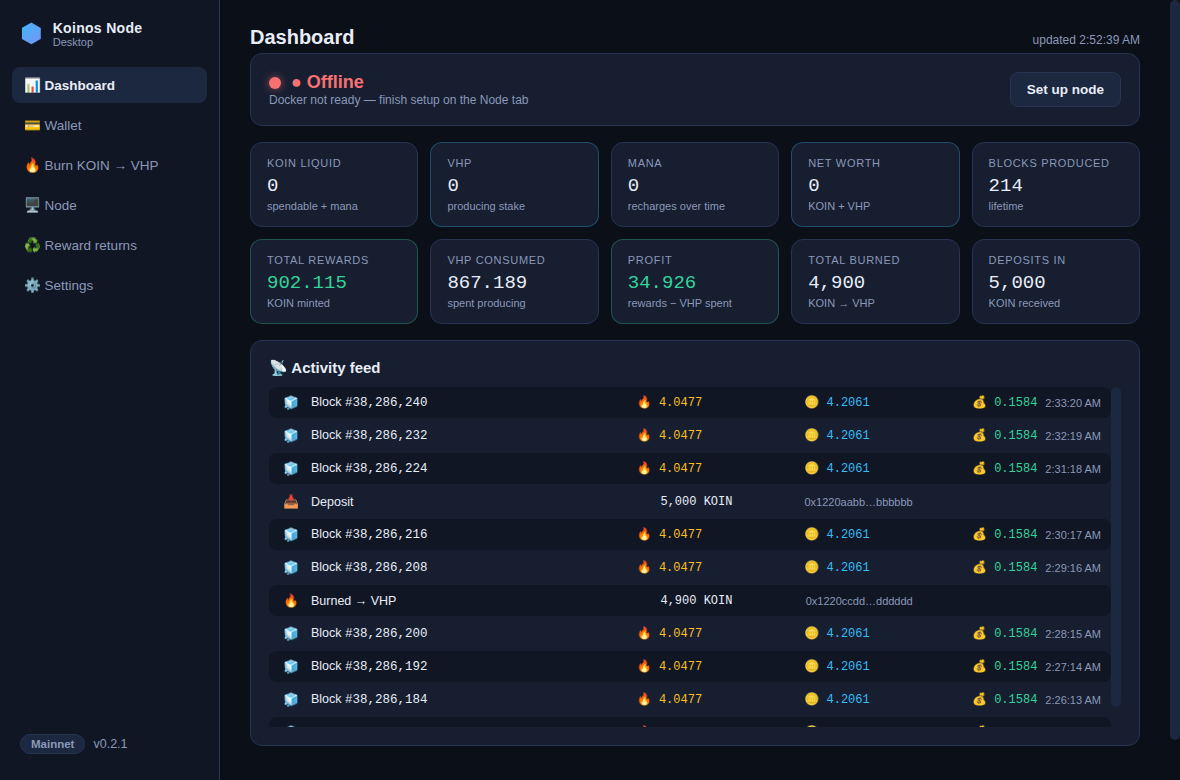
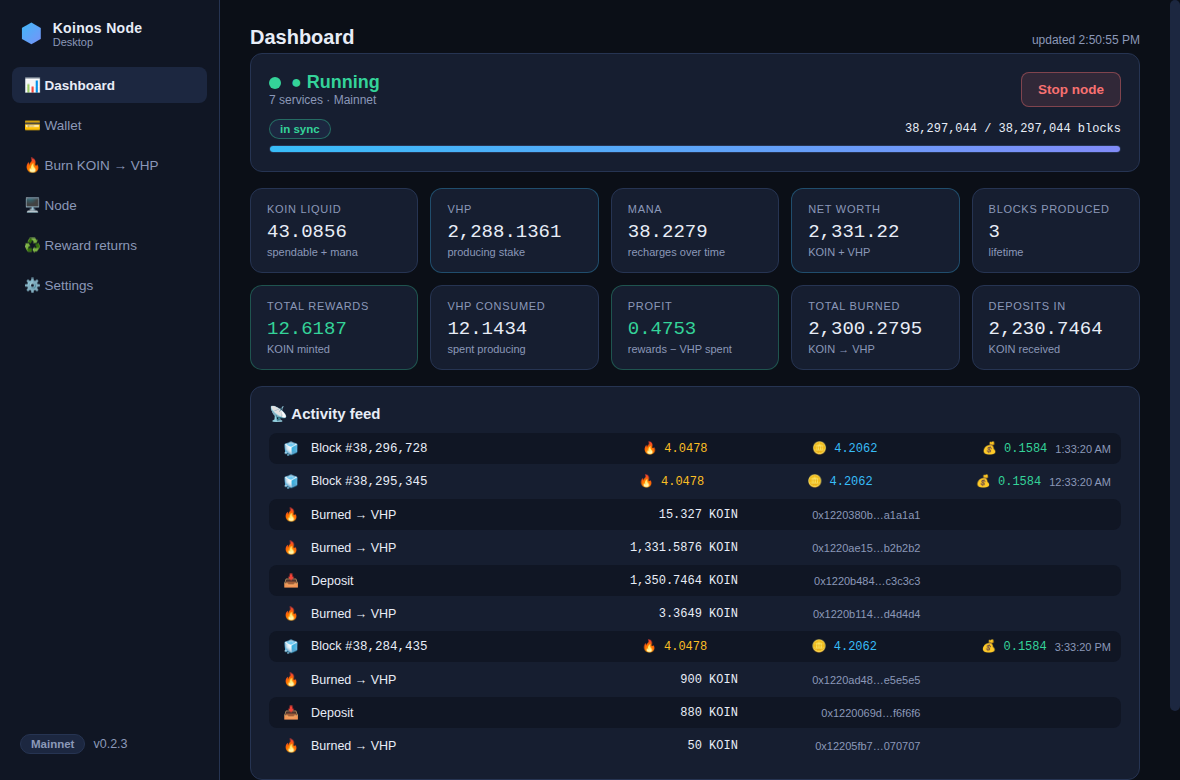
Add KND_DEMO screenshot hook + refresh dashboard screenshot
KND_DEMO (dev/screenshot-only, never set in production) makes the
dashboard summary report a running, synced node with representative
balances so marketing screenshots show a live dashboard. Also updates the
bundled dashboard screenshot to the running state.

Claude-Session: https://claude.ai/code/session_01T3hZ53x72eGD6AfS4e36Bi

diff --git a/electron/main.js b/electron/main.js
@@ -388,6 +388,20 @@ function registerIpc({ settings, wallet, chain, nodeMgr, setup, rewards, stats, 
     ]);
     out.balances = balances;
     out.stats = statsRes;
+
+    // Screenshot/demo-only override (never set in production): present a
+    // running, synced node with representative balances so marketing shots
+    // show a live dashboard.
+    if (process.env.KND_DEMO) {
+      out.node = { docker: { ok: true }, isRunning: true, runningCount: 7, op: null };
+      out.sync = {
+        inSync: true,
+        local: { height: 38297044, headBlockTimeMs: Date.now(), error: null },
+        remote: { height: 38297044 },
+        progressPct: 100,
+      };
+      out.balances = { koin: "4308560000", vhp: "228813610000", mana: "3822790000" };
+    }
     return out;
   });
 
